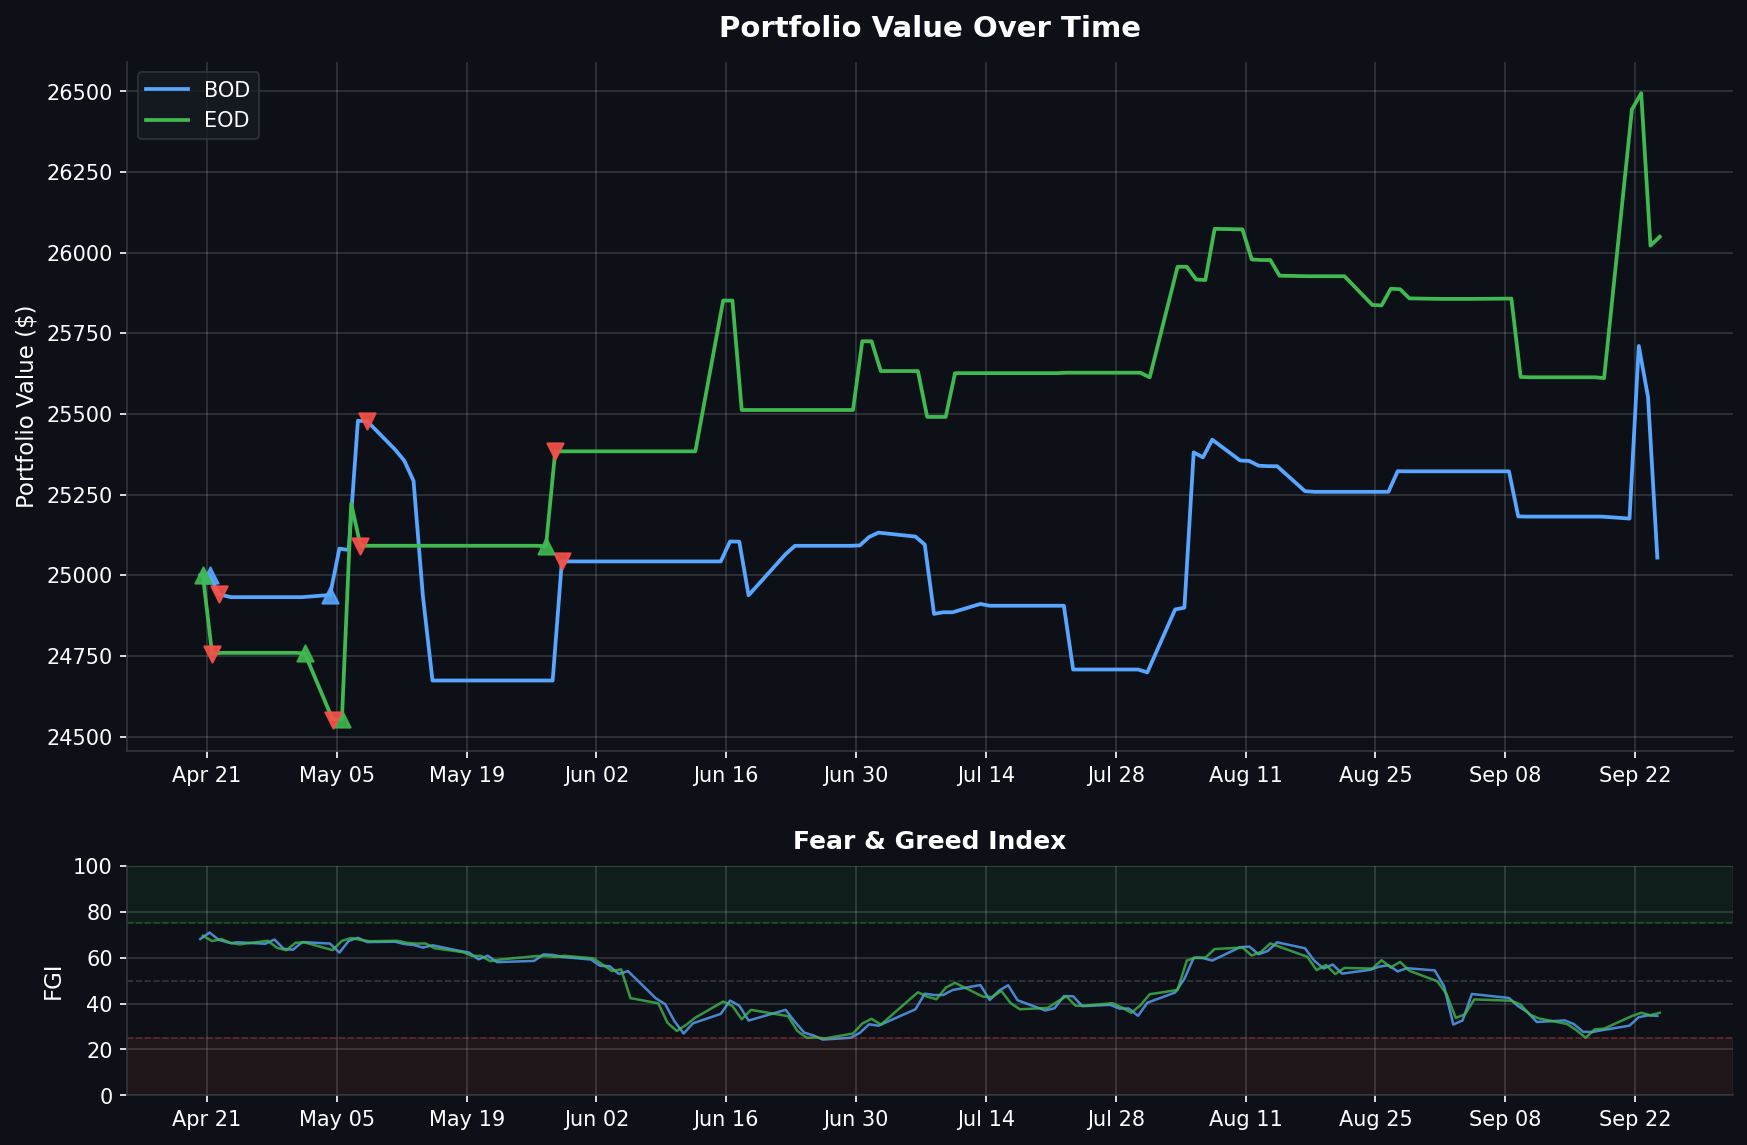
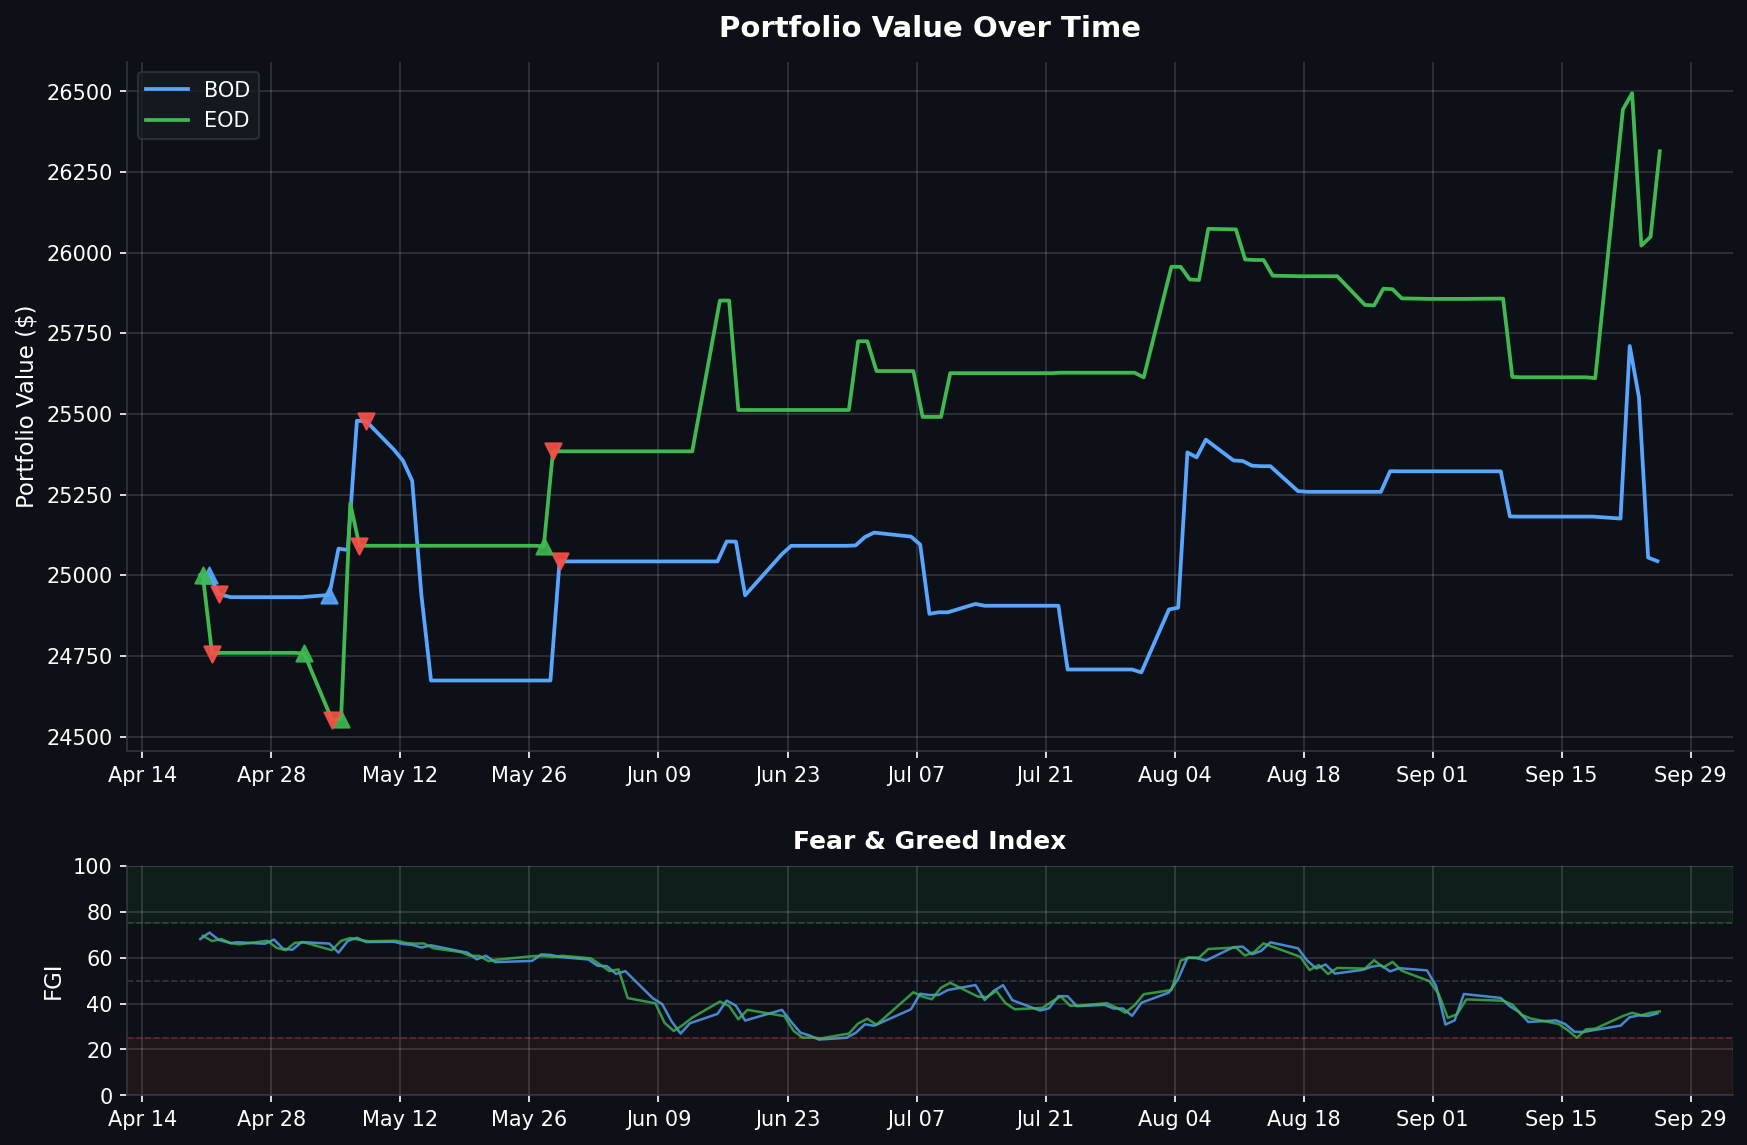
Daily data backup 2026-09-25

diff --git a/README.md b/README.md
@@ -1,6 +1,6 @@
 # Fear & Greed Index Trading Bot
 
-> Dashboard auto-updated daily at market close | Last update: **2026-09-24 13:30 PST**
+> Dashboard auto-updated daily at market close | Last update: **2026-09-25 13:30 PST**
 
 ![Portfolio Performance](assets/portfolio_chart.png)
 
@@ -10,23 +10,22 @@
 
 | Metric | Value |
 |--------|-------|
-| Portfolio Value | **$25,054.71** |
-| Buying Power | $100,218.84 |
-| Current FGI | 34.63 |
-| Position | IN POSITION |
+| Portfolio Value | **$25,043.70** |
+| Buying Power | $41,082.58 |
+| Current FGI | 35.71 |
+| Position | FLAT |
 | Total P&L | **$+995** |
 | Win Rate | 50% (1W / 1L) |
 | Total Round Trips | 2 |
-| Last Signal | NO_ACTION @ 2026-09-24 09:35 |
+| Last Signal | NO_ACTION @ 2026-09-25 09:36 |
 
 <details>
-<summary>Trade History (3 trades)</summary>
+<summary>Trade History (2 trades)</summary>
 
 | Buy Date | Sell Date | Buy Price | Sell Price | Qty | P&L | Return | Result |
 |----------|-----------|-----------|------------|-----|-----|--------|--------|
 | 2026-04-21 | 2026-04-22 | $710.20 | $709.24 | 70 | $-68 | -0.14% | LOSS |
 | 2026-05-04 | 2026-05-08 | $719.65 | $735.05 | 69 | $+1,063 | +2.14% | WIN |
-| 2026-09-21 | — | unknown (late/unlogged fill) | — | 64 | — | — | OPEN |
 
 </details>
 
@@ -35,11 +34,11 @@
 
 | Time | Action | Price | FGI | Momentum | Velocity | Volatility | Reason |
 |------|--------|-------|-----|----------|----------|------------|--------|
+| 09-25 09:36 | NO_ACTION | $769.53 | 35.71 | 0.64 | 0.55 | 0.1065 | BUY did not fill after 3 attempts |
 | 09-24 09:35 | NO_ACTION | $764.98 | 34.63 | 0.11 | 1.42 | 0.1099 | SELL incomplete - still holding 64 after 5 attempts |
 | 09-23 09:35 | NO_ACTION | $772.33 | 34.86 | 1.76 | 2.16 | 0.1056 | Holding position - indicators still favorable (2/8 days) |
 | 09-22 09:35 | NO_ACTION | $774.79 | 34.06 | 3.13 | 2.15 | 0.1058 | Holding position - indicators still favorable (1/8 days) |
 | 09-21 09:36 | NO_ACTION | $766.19 | 30.37 | 1.59 | 0.89 | 0.0934 | BUY did not fill after 3 attempts |
-| 09-18 09:35 | NO_ACTION | $760.82 | 28.37 | 0.48 | -0.90 | 0.0917 | Insufficient momentum/velocity for entry |
 
 </details>
 
@@ -49,17 +48,17 @@
 
 | Metric | Value |
 |--------|-------|
-| Portfolio Value | **$26,049.30** |
-| Buying Power | $43,368.45 |
-| Current FGI | 36.0 |
-| Position | FLAT |
+| Portfolio Value | **$26,314.30** |
+| Buying Power | $44,110.44 |
+| Current FGI | 36.57 |
+| Position | IN POSITION |
 | Total P&L | **$+302** |
 | Win Rate | 50% (2W / 2L) |
 | Total Round Trips | 4 |
-| Last Signal | NO_ACTION @ 2026-09-24 15:51 |
+| Last Signal | NO_ACTION @ 2026-09-25 15:50 |
 
 <details>
-<summary>Trade History (4 trades)</summary>
+<summary>Trade History (5 trades)</summary>
 
 | Buy Date | Sell Date | Buy Price | Sell Price | Qty | P&L | Return | Result |
 |----------|-----------|-----------|------------|-----|-----|--------|--------|
@@ -67,6 +66,7 @@
 | 2026-05-01 | 2026-05-04 | $720.42 | $717.38 | 68 | $-207 | -0.42% | LOSS |
 | 2026-05-05 | 2026-05-07 | $723.86 | $731.90 | 67 | $+539 | +1.11% | WIN |
 | 2026-05-27 | 2026-05-28 | $750.78 | $755.22 | 66 | $+293 | +0.59% | WIN |
+| 2026-09-24 | — | unknown (late/unlogged fill) | — | 66 | — | — | OPEN |
 
 </details>
 
@@ -75,11 +75,11 @@
 
 | Time | Action | Price | FGI | Momentum | Velocity | Volatility | Reason |
 |------|--------|-------|-----|----------|----------|------------|--------|
+| 09-25 15:50 | NO_ACTION | $772.10 | 36.57 | 0.74 | 0.20 | 0.1081 | Holding position - indicators still favorable (1/8 days) |
 | 09-24 15:51 | NO_ACTION | $767.69 | 36.0 | 0.37 | 0.48 | 0.1089 | BUY did not fill after 3 attempts |
 | 09-23 15:50 | NO_ACTION | $767.52 | 34.91 | -0.24 | 1.95 | 0.1088 | SELL incomplete - still holding 66 after 5 attempts |
 | 09-22 15:50 | NO_ACTION | $774.67 | 35.97 | 2.77 | 2.39 | 0.1058 | Holding position - indicators still favorable (2/8 days) |
 | 09-21 15:50 | NO_ACTION | $773.92 | 34.57 | 3.76 | 3.16 | 0.1083 | Holding position - indicators still favorable (1/8 days) |
-| 09-18 15:51 | NO_ACTION | $761.51 | 29.06 | 1.41 | 0.20 | 0.0916 | BUY did not fill after 3 attempts |
 
 </details>
 
